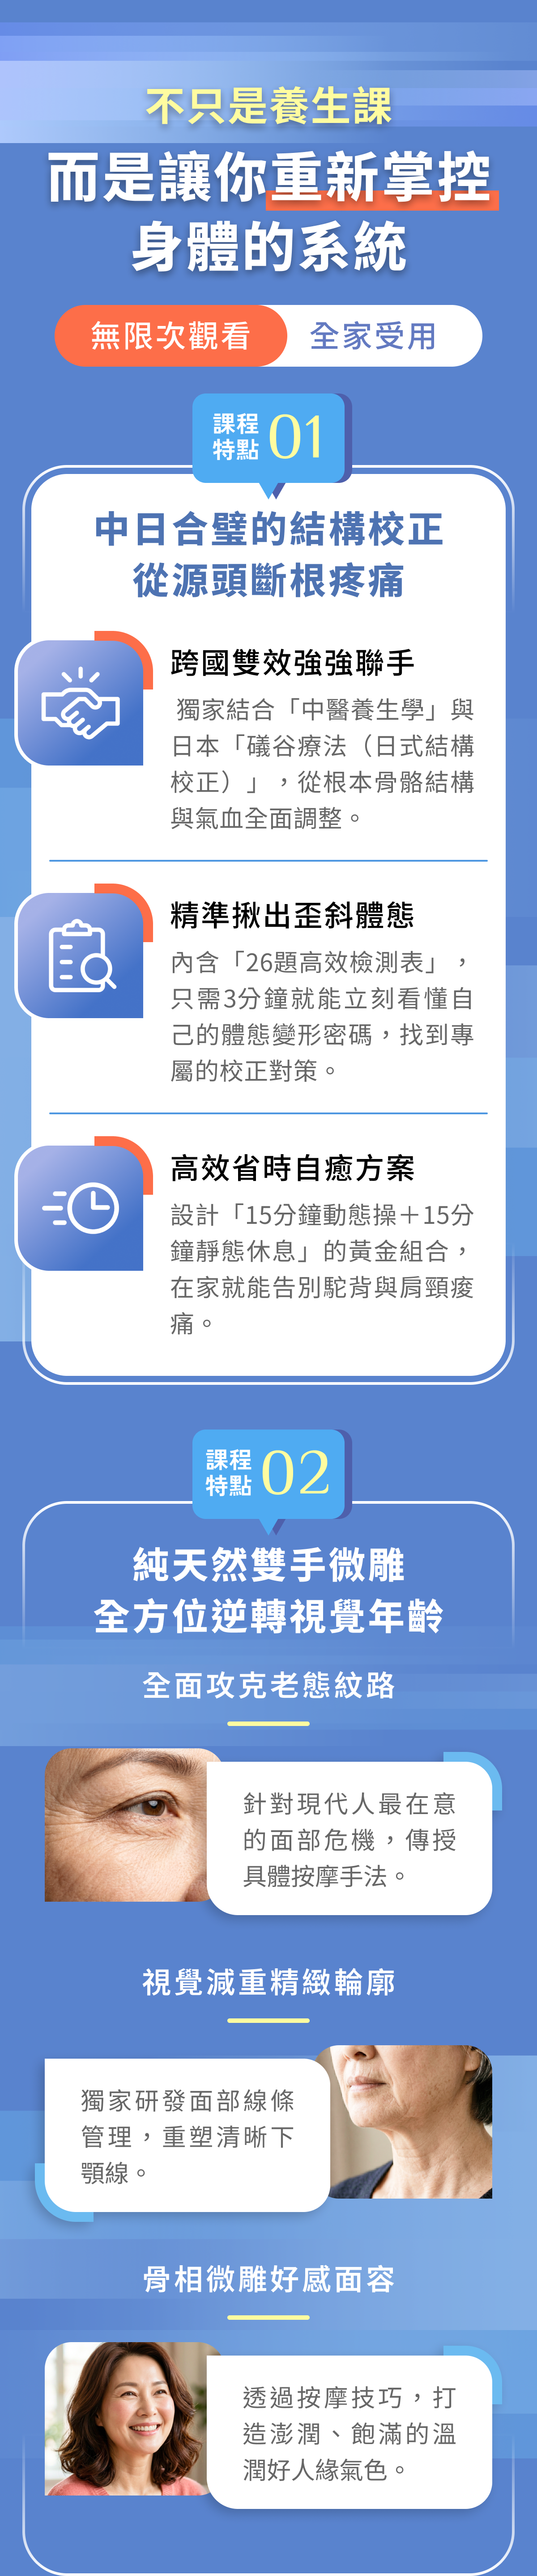
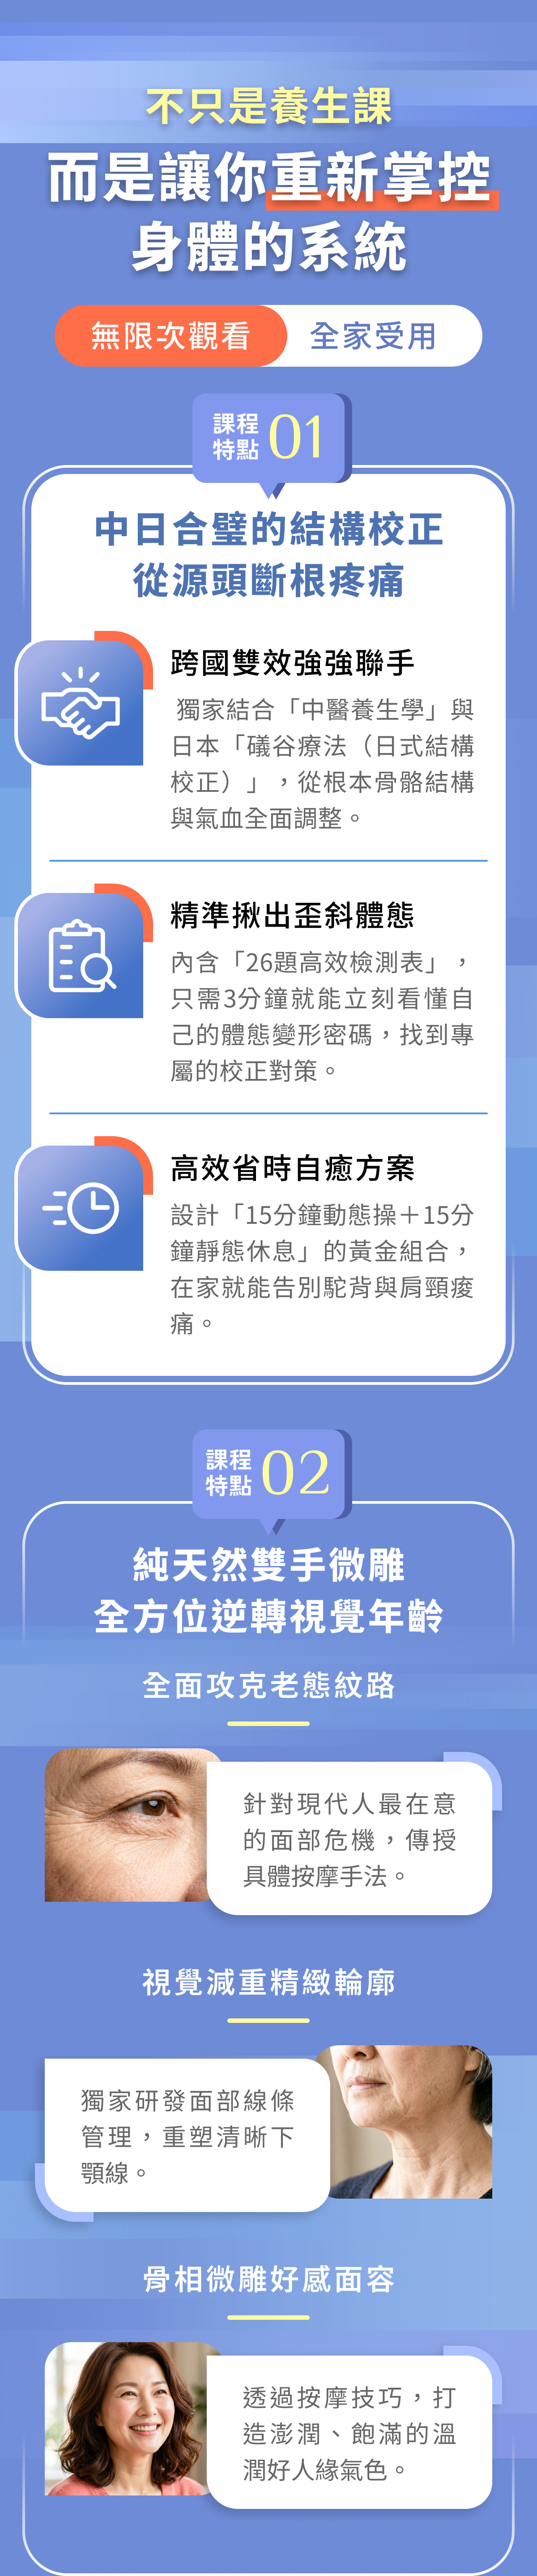
Merge pull request #97 from sowu0902/202606_ch
色調微調

Pull request: 色調微調

diff --git a/202606_ch/index.html b/202606_ch/index.html
@@ -65,11 +65,11 @@
     <ul style="padding-left: 20px; margin: 0; color: #444;">
       <li style="margin-bottom: 12px;">
         <strong>主要色調：</strong> 
-        以沉穩專業感的<strong>揉合微紫調的藍色</strong>作為主色，為整個課程奠定<strong>專業、知性</strong>的基調，展現理性之外的感性與靈性的氛圍。
+        以沉穩專業感的<strong>揉合微紫色調的藍色</strong>作為主色，為整個課程奠定<strong>專業、知性</strong>的基調，展現理性之外的感性與靈性的氛圍。
       </li>
       <li style="margin-bottom: 12px;">
         <strong>輔助色調：</strong> 
-        點綴使用<strong>暖橘色</strong>與<strong>霧黃色</strong>在重點或強調的字眼/區塊，既溫暖又不會有侵略性。
+        點綴使用<strong>暖陽橘色</strong>與<strong>霧黃色</strong>在重點或強調的字眼/區塊，既溫暖又不會有侵略性。
       </li>
       <li style="margin-bottom: 12px;">
         <strong>素材選用：</strong> 